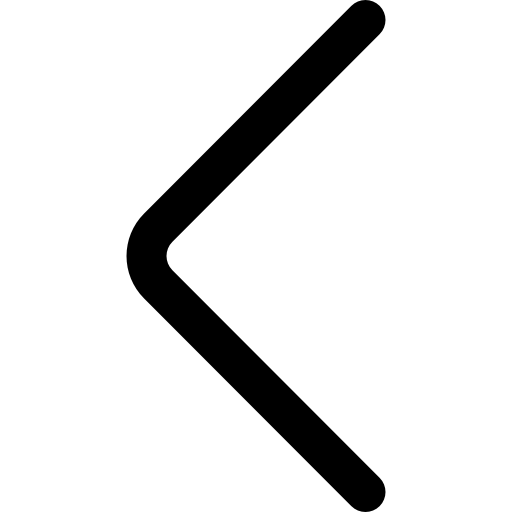
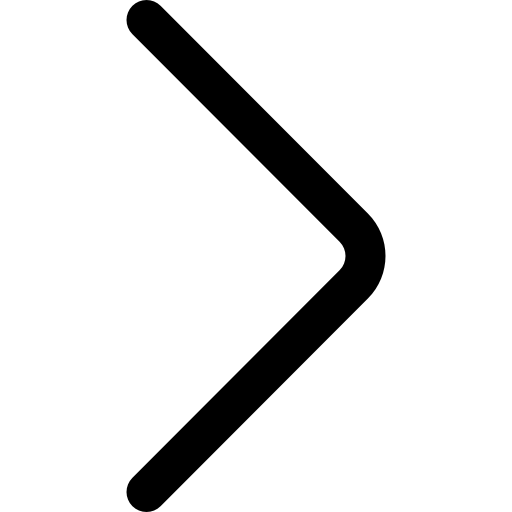
Review Screen Styling, profile, edit profile done

Changed region(s): [[0.25, 0.0, 0.75, 1.0]]

diff --git a/components/ProfileScreen.js b/components/ProfileScreen.js
@@ -89,22 +89,33 @@ export class ProfileScreen extends React.Component {
                                     <Image source={require('../resources/default_profile_picture.png')} style={styles.image_style} />
                             </View>
                         }
-                        <Text style={styles.title_style}>{this.state.user.username}</Text>
-                            {this.state.user.age > 0 && <Text style={[styles.subtitle_style]}>
-                            {this.state.user.age == -1 ? "" : this.state.user.age} Years Old
-                        </Text>}
-                        <Text style={[styles.subtitle_style]}>{(this.state.user.num_children == 0) ? "No Children" :
-                            this.state.user.num_children == 1 ? "1 Child" : this.state.user.num_children + " Children"}
-                        </Text>
-                        <Text style={[styles.subtitle_style]}>{(this.state.user.num_pet == 0) ? "No Pet" :
-                            this.state.user.num_pet == 1 ? "1 Child" : this.state.user.num_pet + " pet"}
-                        </Text>
                         <View style={{marginBottom: 10}}/>
                         </LinearGradient>
                     </View>
                     <View style={{width: '100%', padding: 10}}>
-                        <Text style={[styles.subtitle_style2]}>Bio</Text>
-                        <Text style={styles.subtitle_style3}>{this.state.user.description}</Text>
+                        <View style = {{flexDirection: 'row', alignItems: 'center', justifyContent: 'center'}}>
+                        <Text style={styles.title_style}>{this.state.user.username}</Text>
+                      </View>
+                      <View style = {{flexDirection: 'row'}}>
+                            <Text style={[styles.subtitle_style2]}>Name: </Text>
+                            <Text style={styles.subtitle_style3}>{this.state.user.description}</Text>
+                        </View>
+                            {this.state.user.age > 0 && <Text style={[styles.subtitle_style]}>
+                            <Text style={[styles.subtitle_style2]}>Age: </Text>
+                            {this.state.user.age == -1 ? " " : " " + this.state.user.age} Years Old
+                        </Text>}
+                        <View style = {{flexDirection: 'row'}}>
+                            <Text style={[styles.subtitle_style2]}>Children: </Text>
+                            <Text style={[styles.subtitle_style]}>{(this.state.user.num_children == 0) ? "No Children" :
+                                this.state.user.num_children == 1 ? " 1 Child" : " " + this.state.user.num_children + " Children"}
+                            </Text>
+                        </View>
+                        <View style = {{flexDirection: 'row'}}>
+                            <Text style={[styles.subtitle_style2]}>Pet: </Text>
+                            <Text style={[styles.subtitle_style]}>{(this.state.user.num_pet == 0) ? "No Pet" :
+                                this.state.user.num_pet == 1 ? " 1 Pet" : " " + this.state.user.num_pet + " pets"}
+                            </Text>
+                        </View>
                     </View>
 
                     <View>
@@ -175,9 +186,9 @@ export class ProfileScreen extends React.Component {
 
                         <Text style={styles.title_style}>{this.state.user.username}</Text>
                     </View>
-                    <View style={{width: '100%', paddingLeft: 10, display: 'flex', flexDirection: 'row'}}>
-                        <Text style={[styles.subtitle_style, {marginTop: 3, color:'black', flex: 5}]}>Name: </Text>
-                        <TextInput style={{flex: 1, paddingBottom: 5, paddingLeft: 5}} keyboardType='numeric' value={this.state.user.num_children + ""} onChangeText={(num_children) => {this.state.user.num_children = num_children.replace(/[^0-9]/g, ''); this.setState({user: this.state.user})}}></TextInput>
+                    <View style={{width: '100%', paddingLeft: 10, flexDirection: 'row', display: 'flex'}}>
+                        <Text style={[styles.subtitle_style, {marginTop: 3, color: 'black', flex: 5}]}>Name:</Text>
+                        <TextInput style= {{}} multiline={true} value={this.state.user.description} onChangeText={(description) => {this.state.user.description = description; this.setState({user: this.state.user})}}></TextInput>
                         <View style={{flex: 9}}></View>
                     </View>
                     <View style={{width: '100%', paddingLeft: 10, display: 'flex', flexDirection: 'row'}}>
@@ -279,15 +290,17 @@ const styles = StyleSheet.create({
   subtitle_style: {
       fontSize: 15,
       color: 'rgba(0, 0, 0, 0.95)',
+      marginTop: 10,
   },
   subtitle_style2: {
-    fontSize: 17,
+    fontSize: 15,
     color: 'rgb(0, 0, 0)',
     fontWeight: 'bold',
     marginTop: 10,
   },
   subtitle_style3: {
-    fontSize: 17,
+    fontSize: 15,
     color: 'rgba(0, 0, 0, 0.7)',
+    marginTop: 10,
   }
 })

diff --git a/components/ViewProfileScreen.js b/components/ViewProfileScreen.js
@@ -74,16 +74,22 @@ export class ViewProfileScreen extends React.Component {
                         </TouchableHighlight>
                         <Text style={styles.title_style}>{this.state.user.username}</Text>
                         {this.state.user.age > 0 && <Text style={[styles.subtitle_style]}>{this.state.user.age == -1 ? "" : this.state.user.age} Years Old</Text>}
+                        <Text style={[styles.subtitle_style2]}>Children: </Text>
                         <Text style={[styles.subtitle_style]}>{(this.state.user.num_children == 0) ? "No Children" :
                             this.state.user.num_children == 1 ? "1 Child" : this.state.user.num_children + " Children"}
                         </Text>
 
+                        <Text style={[styles.subtitle_style2]}>Pet: </Text>
                         <Text style={[styles.subtitle_style]}>{(this.state.user.num_pet == 0) ? "No Pet" :
                             this.state.user.num_pet == 1 ? "1 Pet" : this.state.user.num_pet + " Pet"}
                         </Text>
 
                         <View style={{marginBottom: 10}}/>
                         </LinearGradient>
+                    </View>
+                    <View style={{width: '100%', padding: 10, flexDirection: 'row'}}>
+                        <Text style={[styles.subtitle_style2]}>Name: </Text>
+                        <Text style={styles.subtitle_style3}>{this.state.user.description}</Text>
                     </View>
                     <Button
                         title="Report"

diff --git a/components/AddReviewScreen.js b/components/AddReviewScreen.js
@@ -391,11 +391,10 @@ export class AddReviewScreen extends React.Component {
                                 </View>
                                 {
                                   this.state.numberedView != 4 &&
-                                  <TouchableOpacity style={{flex:1, backgroundColor: 'pink', alignItems: 'center', height:'33%'}} onPress={()=>{this.state.numberedView <= 3 ? this.setState({numberedView: this.state.numberedView + 1}) : null}}>
-                                      <Icon
-                                        name="chevron-right"
-                                        type="Entypo"
-                                      />
+                                  <TouchableOpacity style={{flex:1, backgroundColor: 'pink', alignItems: 'center', height:'33%', justifyContent: 'center'}} onPress={()=>{this.state.numberedView <= 3 ? this.setState({numberedView: this.state.numberedView + 1}) : null}}>
+                                    <Image
+                                      style={{width: 25, height: 25}}
+                                      source={require('../resources/chevron1.png')} />
                                   </TouchableOpacity>
 
                                 }

diff --git a/components/RegisterScreen.js b/components/RegisterScreen.js
@@ -148,7 +148,7 @@ export class RegisterScreen extends React.Component {
             viewable: true
           },
           publicData:{
-            age: -1,
+            age: 18,
             description: "None",
             num_children: 0,
             num_pet: 0,
